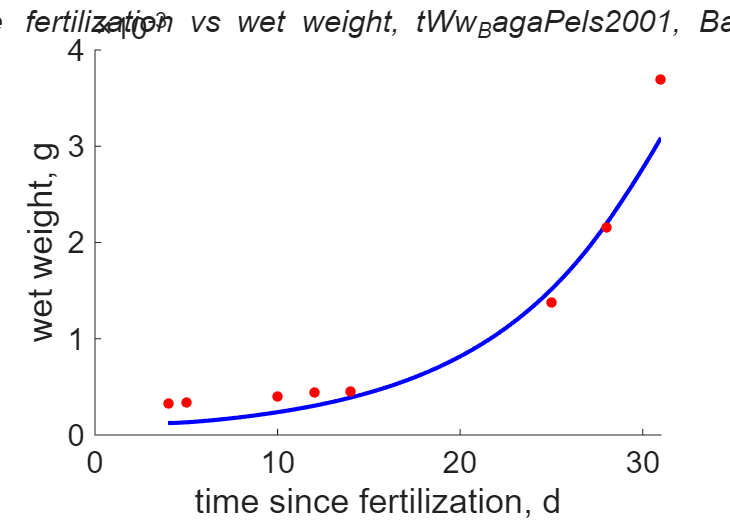
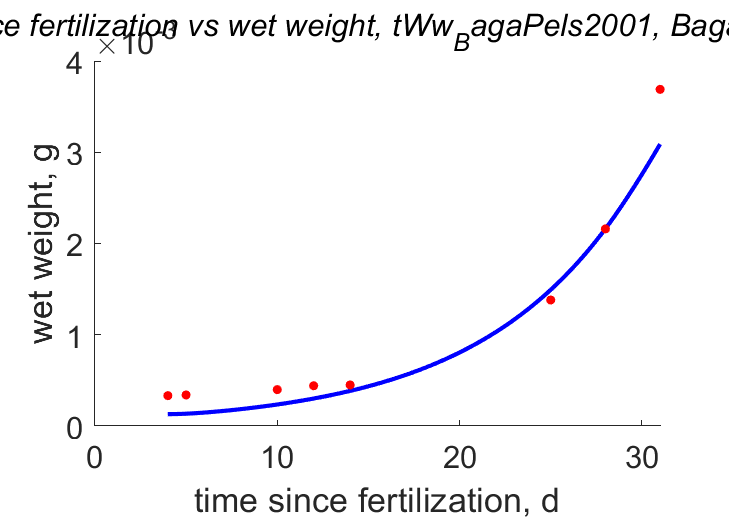
Update on data rich estimation

diff --git a/data_rich/Danio_rerio_res.html b/data_rich/Danio_rerio_res.html
@@ -44,7 +44,7 @@
   </div>
 
   <div class="par">
-  <h4>COMPLETE = 4.6; MRE =    0.138; SMAE =    0.171; SMSE =    0.042 </h4>
+  <h4>COMPLETE = 4.6; MRE =    0.129; SMAE =    0.158; SMSE =    0.035 </h4>
   </div>
 
   <p class="clear"></p>
@@ -53,47 +53,46 @@
   <h2>Data & predictions</h2>
   <TABLE id="prd">
     <TR  class="head"><TH>data</TH> <TH>prd</TH> <TH>RE</TH>  <TH>symbol</TH> <TH>units</TH> <TH>description</TH> </TR>
-    <TR><TD>  5</TD> <TD>3.725</TD> <TD>0.2549</TD> <TD>ab</TD> <TD>d</TD> <TD>age at birth</TD></TR>
-    <TR><TD> 22</TD> <TD>19.67</TD> <TD>0.1058</TD> <TD>aj</TD> <TD>d</TD> <TD>age at metam</TD></TR>
-    <TR><TD> 75</TD> <TD>76.02</TD> <TD>0.01363</TD> <TD>ap</TD> <TD>d</TD> <TD>age at puberty</TD></TR>
-    <TR><TD>1642</TD> <TD>1640</TD> <TD>0.001359</TD> <TD>am</TD> <TD>d</TD> <TD>life span</TD></TR>
-    <TR><TD>0.07</TD> <TD>0.08046</TD> <TD>0.1494</TD> <TD>L0</TD> <TD>cm</TD> <TD>egg diameter</TD></TR>
-    <TR><TD>0.4</TD> <TD>0.2658</TD> <TD>0.3355</TD> <TD>Lb</TD> <TD>cm</TD> <TD>total length at birth</TD></TR>
-    <TR><TD>  1</TD> <TD>0.7515</TD> <TD>0.2485</TD> <TD>Lj</TD> <TD>cm</TD> <TD>total length at metam</TD></TR>
-    <TR><TD>3.25</TD> <TD>3.018</TD> <TD>0.07151</TD> <TD>Lp</TD> <TD>cm</TD> <TD>total length at puberty</TD></TR>
-    <TR><TD>  5</TD> <TD>5.339</TD> <TD>0.06786</TD> <TD>Li</TD> <TD>cm</TD> <TD>ultimate total length</TD></TR>
-    <TR><TD>0.0001</TD> <TD>5.454e-05</TD> <TD>0.4546</TD> <TD>Wd0</TD> <TD>g</TD> <TD>egg dry weight</TD></TR>
-    <TR><TD>  1</TD> <TD>1.394</TD> <TD>0.394</TD> <TD>Wwi</TD> <TD>g</TD> <TD>ultimate wet weight</TD></TR>
-    <TR><TD>240</TD> <TD>155.8</TD> <TD>0.3508</TD> <TD>Ri</TD> <TD>#/d</TD> <TD>max reproduction</TD></TR>
-    <TR><TD>0.15</TD> <TD>0.1369</TD> <TD>0.08762</TD> <TD>GSI</TD> <TD>g/g</TD> <TD>Gonado Somatic Index</TD></TR>
-    <TR><TD colspan="2">see figure</TD> <TD>0.08577</TD> <TD>tL_Schi2002</TD> <TD colspan="2">time since fertilization <font color="blue"><i>vs.</i></font> total length</TD>
-    <TR><TD colspan="2">see figure</TD> <TD>0.0863</TD> <TD>tL_EatoFarl1974</TD> <TD colspan="2">time since birth <font color="blue"><i>vs.</i></font> standard length</TD>
-    <TR><TD colspan="2">see figure</TD> <TD>0.1123</TD> <TD>tL_BagaPels2001</TD> <TD colspan="2">time since fertilizatixon <font color="blue"><i>vs.</i></font> total length</TD>
-    <TR><TD colspan="2">see figure</TD> <TD>0.1675</TD> <TD>tWw_BagaPels2001</TD> <TD colspan="2">time since fertilization <font color="blue"><i>vs.</i></font> wet weight</TD>
-    <TR><TD colspan="2">see figure</TD> <TD>0.2149</TD> <TD>tWd_BagaPels2001</TD> <TD colspan="2">time since fertilization <font color="blue"><i>vs.</i></font> dry weight</TD>
-    <TR><TD colspan="2">see figure</TD> <TD>0.1583</TD> <TD>tL_BestAdat2010</TD> <TD colspan="2">time since fertilization <font color="blue"><i>vs.</i></font> total length</TD>
-    <TR><TD colspan="2">see figure</TD> <TD>0.06479</TD> <TD>tL_LawrEber2002_high</TD> <TD colspan="2">time since birth <font color="blue"><i>vs.</i></font> total length</TD>
-    <TR><TD colspan="2">see figure</TD> <TD>0.04772</TD> <TD>tL_LawrEber2002_low</TD> <TD colspan="2">time since birth <font color="blue"><i>vs.</i></font> total length</TD>
-    <TR><TD colspan="2">see figure</TD> <TD>0.04252</TD> <TD>tLf1_BeauGous2015</TD> <TD colspan="2">time since fertilization <font color="blue"><i>vs.</i></font> standard length</TD>
-    <TR><TD colspan="2">see figure</TD> <TD>0.04795</TD> <TD>tLf2_BeauGous2015</TD> <TD colspan="2">time since fertilization <font color="blue"><i>vs.</i></font> standard length</TD>
-    <TR><TD colspan="2">see figure</TD> <TD>0.05995</TD> <TD>tLf3_BeauGous2015</TD> <TD colspan="2">time since fertilization <font color="blue"><i>vs.</i></font> standard length</TD>
-    <TR><TD colspan="2">see figure</TD> <TD>0.0006241</TD> <TD>tL1</TD> <TD colspan="2">time <font color="blue"><i>vs.</i></font> standard length <font color="blue"></TD>
-    <TR><TD>0.8632</TD> <TD>0.9638</TD> <TD>0.1164</TD> <TD>Wwt</TD> <TD>g</TD> <TD>final wet weight</TD></TR>
-    <TR><TD colspan="2">see figure</TD> <TD>0.1863</TD> <TD>tN</TD> <TD colspan="2">time <font color="blue"><i>vs.</i></font> cumulated number of eggs</TD>
-    <TR><TD colspan="2">see figure</TD> <TD>0.1221</TD> <TD>tWw_ValKwa2022</TD> <TD colspan="2">time <font color="blue"><i>vs.</i></font> wet weight</TD>
-    <TR><TD colspan="2">see figure</TD> <TD>0.131</TD> <TD>tL_ValKwa2022</TD> <TD colspan="2">time <font color="blue"><i>vs.</i></font> total length</TD>
-    <TR><TD colspan="2">see figure</TD> <TD>0.08013</TD> <TD>tJX_ValKwa2022</TD> <TD colspan="2">time <font color="blue"><i>vs.</i></font> feed intake</TD>
-    <TR><TD colspan="2">see figure</TD> <TD>0.05082</TD> <TD>tL_YangYama2019</TD> <TD colspan="2">time <font color="blue"><i>vs.</i></font> total length</TD>
-    <TR><TD colspan="2">see figure</TD> <TD>0.09078</TD> <TD>tWw_YangYama2019</TD> <TD colspan="2">time <font color="blue"><i>vs.</i></font> wet weight</TD>
-    <TR><TD colspan="2">see figure</TD> <TD>0.1607</TD> <TD>tJO_YangYama2019</TD> <TD colspan="2">time <font color="blue"><i>vs.</i></font> oxygen consumption</TD>
-    <TR class="psd"><TD>0.02</TD> <TD>0.03123</TD> <TD>0.5617</TD> <TD>psd.v</TD> <TD>cm/d</TD> <TD>energy conductance</TD></TR>
-    <TR class="psd"><TD> 18</TD> <TD>126.1</TD> <TD>6.005</TD> <TD>psd.p_M</TD> <TD>J/d.cm^3</TD> <TD>vol-spec som maint</TD></TR>
+    <TR><TD>  5</TD> <TD>4.027</TD> <TD>0.1946</TD> <TD>ab</TD> <TD>d</TD> <TD>age at birth</TD></TR>
+    <TR><TD> 22</TD> <TD>21.37</TD> <TD>0.02867</TD> <TD>aj</TD> <TD>d</TD> <TD>age at metam</TD></TR>
+    <TR><TD> 75</TD> <TD>76.02</TD> <TD>0.01366</TD> <TD>ap</TD> <TD>d</TD> <TD>age at puberty</TD></TR>
+    <TR><TD>1642</TD> <TD>1637</TD> <TD>0.003045</TD> <TD>am</TD> <TD>d</TD> <TD>life span</TD></TR>
+    <TR><TD>0.07</TD> <TD>0.08463</TD> <TD>0.209</TD> <TD>L0</TD> <TD>cm</TD> <TD>egg diameter</TD></TR>
+    <TR><TD>0.4</TD> <TD>0.2695</TD> <TD>0.3263</TD> <TD>Lb</TD> <TD>cm</TD> <TD>total length at birth</TD></TR>
+    <TR><TD>  1</TD> <TD>0.7906</TD> <TD>0.2094</TD> <TD>Lj</TD> <TD>cm</TD> <TD>total length at metam</TD></TR>
+    <TR><TD>3.25</TD> <TD>3.07</TD> <TD>0.05545</TD> <TD>Lp</TD> <TD>cm</TD> <TD>total length at puberty</TD></TR>
+    <TR><TD>  5</TD> <TD>5.213</TD> <TD>0.04267</TD> <TD>Li</TD> <TD>cm</TD> <TD>ultimate total length</TD></TR>
+    <TR><TD>0.0001</TD> <TD>6.347e-05</TD> <TD>0.3653</TD> <TD>Wd0</TD> <TD>g</TD> <TD>egg dry weight</TD></TR>
+    <TR><TD>  1</TD> <TD>1.427</TD> <TD>0.4267</TD> <TD>Wwi</TD> <TD>g</TD> <TD>ultimate wet weight</TD></TR>
+    <TR><TD>240</TD> <TD>160.5</TD> <TD>0.3314</TD> <TD>Ri</TD> <TD>#/d</TD> <TD>max reproduction</TD></TR>
+    <TR><TD>0.15</TD> <TD>0.1584</TD> <TD>0.05574</TD> <TD>GSI</TD> <TD>g/g</TD> <TD>Gonado Somatic Index</TD></TR>
+    <TR><TD colspan="2">see figure</TD> <TD>0.0912</TD> <TD>tL_Schi2002</TD> <TD colspan="2">time since fertilization <font color="blue"><i>vs.</i></font> total length</TD>
+    <TR><TD colspan="2">see figure</TD> <TD>0.08343</TD> <TD>tL_EatoFarl1974</TD> <TD colspan="2">time since birth <font color="blue"><i>vs.</i></font> standard length</TD>
+    <TR><TD colspan="2">see figure</TD> <TD>0.1138</TD> <TD>tL_BagaPels2001</TD> <TD colspan="2">time since fertilizatixon <font color="blue"><i>vs.</i></font> total length</TD>
+    <TR><TD colspan="2">see figure</TD> <TD>0.1623</TD> <TD>tWw_BagaPels2001</TD> <TD colspan="2">time since fertilization <font color="blue"><i>vs.</i></font> wet weight</TD>
+    <TR><TD colspan="2">see figure</TD> <TD>0.2073</TD> <TD>tWd_BagaPels2001</TD> <TD colspan="2">time since fertilization <font color="blue"><i>vs.</i></font> dry weight</TD>
+    <TR><TD colspan="2">see figure</TD> <TD>0.1798</TD> <TD>tL_BestAdat2010</TD> <TD colspan="2">time since fertilization <font color="blue"><i>vs.</i></font> total length</TD>
+    <TR><TD colspan="2">see figure</TD> <TD>0.06489</TD> <TD>tL_LawrEber2002_high</TD> <TD colspan="2">time since birth <font color="blue"><i>vs.</i></font> total length</TD>
+    <TR><TD colspan="2">see figure</TD> <TD>0.04654</TD> <TD>tL_LawrEber2002_low</TD> <TD colspan="2">time since birth <font color="blue"><i>vs.</i></font> total length</TD>
+    <TR><TD colspan="2">see figure</TD> <TD>0.04352</TD> <TD>tLf1_BeauGous2015</TD> <TD colspan="2">time since fertilization <font color="blue"><i>vs.</i></font> standard length</TD>
+    <TR><TD colspan="2">see figure</TD> <TD>0.05521</TD> <TD>tLf2_BeauGous2015</TD> <TD colspan="2">time since fertilization <font color="blue"><i>vs.</i></font> standard length</TD>
+    <TR><TD colspan="2">see figure</TD> <TD>0.05986</TD> <TD>tLf3_BeauGous2015</TD> <TD colspan="2">time since fertilization <font color="blue"><i>vs.</i></font> standard length</TD>
+    <TR><TD colspan="2">see figure</TD> <TD>0.011</TD> <TD>tL1</TD> <TD colspan="2">time <font color="blue"><i>vs.</i></font> standard length <font color="blue"></TD>
+    <TR><TD>0.8632</TD> <TD>0.9457</TD> <TD>0.09553</TD> <TD>Wwt</TD> <TD>g</TD> <TD>final wet weight</TD></TR>
+    <TR><TD colspan="2">see figure</TD> <TD>0.1563</TD> <TD>tN</TD> <TD colspan="2">time <font color="blue"><i>vs.</i></font> cumulated number of eggs</TD>
+    <TR><TD colspan="2">see figure</TD> <TD>0.108</TD> <TD>tWw_ValKwa2022</TD> <TD colspan="2">time <font color="blue"><i>vs.</i></font> wet weight</TD>
+    <TR><TD colspan="2">see figure</TD> <TD>0.1351</TD> <TD>tL_ValKwa2022</TD> <TD colspan="2">time <font color="blue"><i>vs.</i></font> total length</TD>
+    <TR><TD colspan="2">see figure</TD> <TD>0.08051</TD> <TD>tJX_ValKwa2022</TD> <TD colspan="2">time <font color="blue"><i>vs.</i></font> feed intake</TD>
+    <TR><TD colspan="2">see figure</TD> <TD>0.04511</TD> <TD>tL_YangYama2019</TD> <TD colspan="2">time <font color="blue"><i>vs.</i></font> total length</TD>
+    <TR><TD colspan="2">see figure</TD> <TD>0.08267</TD> <TD>tWw_YangYama2019</TD> <TD colspan="2">time <font color="blue"><i>vs.</i></font> wet weight</TD>
+    <TR><TD colspan="2">see figure</TD> <TD>0.161</TD> <TD>tJO_YangYama2019</TD> <TD colspan="2">time <font color="blue"><i>vs.</i></font> oxygen consumption</TD>
+    <TR class="psd"><TD>0.02</TD> <TD>0.02756</TD> <TD>0.3782</TD> <TD>psd.v</TD> <TD>cm/d</TD> <TD>energy conductance</TD></TR>
+    <TR class="psd"><TD> 18</TD> <TD>137.1</TD> <TD>6.615</TD> <TD>psd.p_M</TD> <TD>J/d.cm^3</TD> <TD>vol-spec som maint</TD></TR>
     <TR class="psd"><TD>0.002</TD> <TD>0.002</TD> <TD>  0</TD> <TD>psd.k_J</TD> <TD>1/d</TD> <TD>maturity maint rate coefficient</TD></TR>
-    <TR class="psd"><TD>0.3</TD> <TD>0.08208</TD> <TD>0.7264</TD> <TD>psd.k</TD> <TD>-</TD> <TD>maintenance ratio</TD></TR>
-    <TR class="psd"><TD>0.8</TD> <TD>0.3668</TD> <TD>0.5414</TD> <TD>psd.kap</TD> <TD>-</TD> <TD>allocation fraction to soma</TD></TR>
-    <TR class="psd"><TD>0.8</TD> <TD>0.8086</TD> <TD>0.01078</TD> <TD>psd.kap_G</TD> <TD>-</TD> <TD>growth efficiency</TD></TR>
+    <TR class="psd"><TD>0.3</TD> <TD>0.07696</TD> <TD>0.7435</TD> <TD>psd.k</TD> <TD>-</TD> <TD>maintenance ratio</TD></TR>
+    <TR class="psd"><TD>0.8</TD> <TD>0.2985</TD> <TD>0.6268</TD> <TD>psd.kap</TD> <TD>-</TD> <TD>allocation fraction to soma</TD></TR>
+    <TR class="psd"><TD>0.8</TD> <TD>0.7933</TD> <TD>0.008421</TD> <TD>psd.kap_G</TD> <TD>-</TD> <TD>growth efficiency</TD></TR>
     <TR class="psd"><TD>0.95</TD> <TD>0.95</TD> <TD>  0</TD> <TD>psd.kap_R</TD> <TD>-</TD> <TD>reproduction efficiency</TD></TR>
-    <TR class="psd"><TD>0.01</TD> <TD>0.002006</TD> <TD>0.7994</TD> <TD>psd.s_s</TD> <TD>-</TD> <TD>supply stress</TD></TR>
   </TABLE>
   </div>
 
@@ -103,35 +102,35 @@
     <TR class="head"><TH>symbol</TH> <TH>units</TH> <TH>value</TH>  <TH>free</TH> <TH>description</TH> </TR>
     <TR><TD>T_ref</TD> <TD>K</TD> <TD>293.1</TD> <TD>0</TD> <TD>Reference temperature</TD></TR>
     <TR><TD>T_A</TD> <TD>K</TD> <TD>8000</TD> <TD>0</TD> <TD>Arrhenius temp</TD></TR>
-    <TR><TD>z</TD> <TD>-</TD> <TD>0.2918</TD> <TD>1</TD> <TD>zoom factor</TD></TR>
+    <TR><TD>z</TD> <TD>-</TD> <TD>0.2624</TD> <TD>1</TD> <TD>zoom factor</TD></TR>
     <TR><TD>F_m</TD> <TD>l/d.cm^2</TD> <TD>6.5</TD> <TD>0</TD> <TD>{F_m}, max spec searching rate</TD></TR>
-    <TR><TD>kap_X</TD> <TD>-</TD> <TD>0.6417</TD> <TD>1</TD> <TD>digestion efficiency of food to reserve</TD></TR>
-    <TR><TD>kap_P</TD> <TD>-</TD> <TD>0.2267</TD> <TD>1</TD> <TD>faecation efficiency of food to faeces</TD></TR>
-    <TR><TD>v</TD> <TD>cm/d</TD> <TD>0.03123</TD> <TD>1</TD> <TD>energy conductance</TD></TR>
-    <TR><TD>kap</TD> <TD>-</TD> <TD>0.3668</TD> <TD>1</TD> <TD>allocation fraction to soma</TD></TR>
-    <TR><TD>p_M</TD> <TD>J/d.cm^3</TD> <TD>126.1</TD> <TD>1</TD> <TD>[p_M], vol-spec somatic maint</TD></TR>
+    <TR><TD>kap_X</TD> <TD>-</TD> <TD>0.7595</TD> <TD>1</TD> <TD>digestion efficiency of food to reserve</TD></TR>
+    <TR><TD>kap_P</TD> <TD>-</TD> <TD>0.1154</TD> <TD>1</TD> <TD>faecation efficiency of food to faeces</TD></TR>
+    <TR><TD>v</TD> <TD>cm/d</TD> <TD>0.02756</TD> <TD>1</TD> <TD>energy conductance</TD></TR>
+    <TR><TD>kap</TD> <TD>-</TD> <TD>0.2985</TD> <TD>1</TD> <TD>allocation fraction to soma</TD></TR>
+    <TR><TD>p_M</TD> <TD>J/d.cm^3</TD> <TD>137.1</TD> <TD>1</TD> <TD>[p_M], vol-spec somatic maint</TD></TR>
     <TR><TD>p_T</TD> <TD>J/d.cm^2</TD> <TD>  0</TD> <TD>0</TD> <TD>{p_T}, surf-spec somatic maint</TD></TR>
     <TR><TD>k_J</TD> <TD>1/d</TD> <TD>0.002</TD> <TD>0</TD> <TD>maturity maint rate coefficient</TD></TR>
-    <TR><TD>E_G</TD> <TD>J/cm^3</TD> <TD>5174</TD> <TD>1</TD> <TD>[E_G], spec cost for structure</TD></TR>
-    <TR><TD>E_Hb</TD> <TD>J</TD> <TD>0.6509</TD> <TD>1</TD> <TD>maturity at birth</TD></TR>
-    <TR><TD>E_Hj</TD> <TD>J</TD> <TD>16.43</TD> <TD>1</TD> <TD>maturity at metam</TD></TR>
-    <TR><TD>E_Hp</TD> <TD>J</TD> <TD>1607</TD> <TD>1</TD> <TD>maturity at puberty</TD></TR>
+    <TR><TD>E_G</TD> <TD>J/cm^3</TD> <TD>5275</TD> <TD>1</TD> <TD>[E_G], spec cost for structure</TD></TR>
+    <TR><TD>E_Hb</TD> <TD>J</TD> <TD>0.8273</TD> <TD>1</TD> <TD>maturity at birth</TD></TR>
+    <TR><TD>E_Hj</TD> <TD>J</TD> <TD>23.58</TD> <TD>1</TD> <TD>maturity at metam</TD></TR>
+    <TR><TD>E_Hp</TD> <TD>J</TD> <TD>2112</TD> <TD>1</TD> <TD>maturity at puberty</TD></TR>
     <TR><TD>kap_R</TD> <TD>-</TD> <TD>0.95</TD> <TD>0</TD> <TD>reproduction efficiency</TD></TR>
-    <TR><TD>h_a</TD> <TD>1/d^2</TD> <TD>1.822e-09</TD> <TD>1</TD> <TD>Weibull aging acceleration</TD></TR>
+    <TR><TD>h_a</TD> <TD>1/d^2</TD> <TD>1.833e-09</TD> <TD>1</TD> <TD>Weibull aging acceleration</TD></TR>
     <TR><TD>s_G</TD> <TD>-</TD> <TD>0.0001</TD> <TD>0</TD> <TD>Gompertz stress coefficient</TD></TR>
-    <TR><TD>del_Mt</TD> <TD>-</TD> <TD>0.1546</TD> <TD>1</TD> <TD>shape coefficient for adult</TD></TR>
+    <TR><TD>del_Mt</TD> <TD>-</TD> <TD>0.1477</TD> <TD>1</TD> <TD>shape coefficient for adult</TD></TR>
     <TR><TD>V_0</TD> <TD>cm^3</TD> <TD>1e-10</TD> <TD>0</TD> <TD>initial structure of egg</TD></TR>
     <TR><TD>f</TD> <TD>-</TD> <TD>  1</TD> <TD>0</TD> <TD>scaled functional response</TD></TR>
-    <TR><TD>f_BagaPels2001</TD> <TD>-</TD> <TD>0.6523</TD> <TD>1</TD> <TD>scaled functional response of BagaPels2001 data</TD></TR>
-    <TR><TD>f_BeauGous2015L</TD> <TD>-</TD> <TD>0.728</TD> <TD>1</TD> <TD>sc. func. resp., BeauGous2015, length data</TD></TR>
-    <TR><TD>f_BeauGous2015R</TD> <TD>-</TD> <TD>1.147</TD> <TD>1</TD> <TD>sc. func. resp., BeauGous2015, reproduction data</TD></TR>
-    <TR><TD>f_BestAdat2010</TD> <TD>-</TD> <TD>1.206</TD> <TD>1</TD> <TD>scaled functional response of BestAdat2010 data</TD></TR>
-    <TR><TD>f_EatoFarl1974</TD> <TD>-</TD> <TD>1.019</TD> <TD>1</TD> <TD>scaled functional response of EatoFarl1974b data</TD></TR>
-    <TR><TD>f_LawrEber2002_high</TD> <TD>-</TD> <TD>0.9811</TD> <TD>1</TD> <TD>scaled functional response of LawrEber2002_high data</TD></TR>
-    <TR><TD>f_LawrEber2002_low</TD> <TD>-</TD> <TD>0.6361</TD> <TD>1</TD> <TD>scaled functional response of LawrEber2002_low data</TD></TR>
-    <TR><TD>f_Schi2002</TD> <TD>-</TD> <TD>0.6071</TD> <TD>1</TD> <TD>scaled functional response of Schi2002 data</TD></TR>
-    <TR><TD>f_ValKwa2022</TD> <TD>-</TD> <TD>0.928</TD> <TD>1</TD> <TD>scaled functional response of ValKwa2022 data</TD></TR>
-    <TR><TD>f_YangYama2019</TD> <TD>-</TD> <TD>0.7221</TD> <TD>1</TD> <TD>scaled functional response of YangYama2019 data</TD></TR>
+    <TR><TD>f_BagaPels2001</TD> <TD>-</TD> <TD>0.6792</TD> <TD>1</TD> <TD>scaled functional response of BagaPels2001 data</TD></TR>
+    <TR><TD>f_BeauGous2015L</TD> <TD>-</TD> <TD>0.7526</TD> <TD>1</TD> <TD>sc. func. resp., BeauGous2015, length data</TD></TR>
+    <TR><TD>f_BeauGous2015R</TD> <TD>-</TD> <TD>1.09</TD> <TD>1</TD> <TD>sc. func. resp., BeauGous2015, reproduction data</TD></TR>
+    <TR><TD>f_BestAdat2010</TD> <TD>-</TD> <TD>1.213</TD> <TD>1</TD> <TD>scaled functional response of BestAdat2010 data</TD></TR>
+    <TR><TD>f_EatoFarl1974</TD> <TD>-</TD> <TD>1.072</TD> <TD>1</TD> <TD>scaled functional response of EatoFarl1974b data</TD></TR>
+    <TR><TD>f_LawrEber2002_high</TD> <TD>-</TD> <TD>1.003</TD> <TD>1</TD> <TD>scaled functional response of LawrEber2002_high data</TD></TR>
+    <TR><TD>f_LawrEber2002_low</TD> <TD>-</TD> <TD>0.6334</TD> <TD>1</TD> <TD>scaled functional response of LawrEber2002_low data</TD></TR>
+    <TR><TD>f_Schi2002</TD> <TD>-</TD> <TD>0.6315</TD> <TD>1</TD> <TD>scaled functional response of Schi2002 data</TD></TR>
+    <TR><TD>f_ValKwa2022</TD> <TD>-</TD> <TD>0.922</TD> <TD>1</TD> <TD>scaled functional response of ValKwa2022 data</TD></TR>
+    <TR><TD>f_YangYama2019</TD> <TD>-</TD> <TD>0.7344</TD> <TD>1</TD> <TD>scaled functional response of YangYama2019 data</TD></TR>
   </TABLE>
   </div>
 
